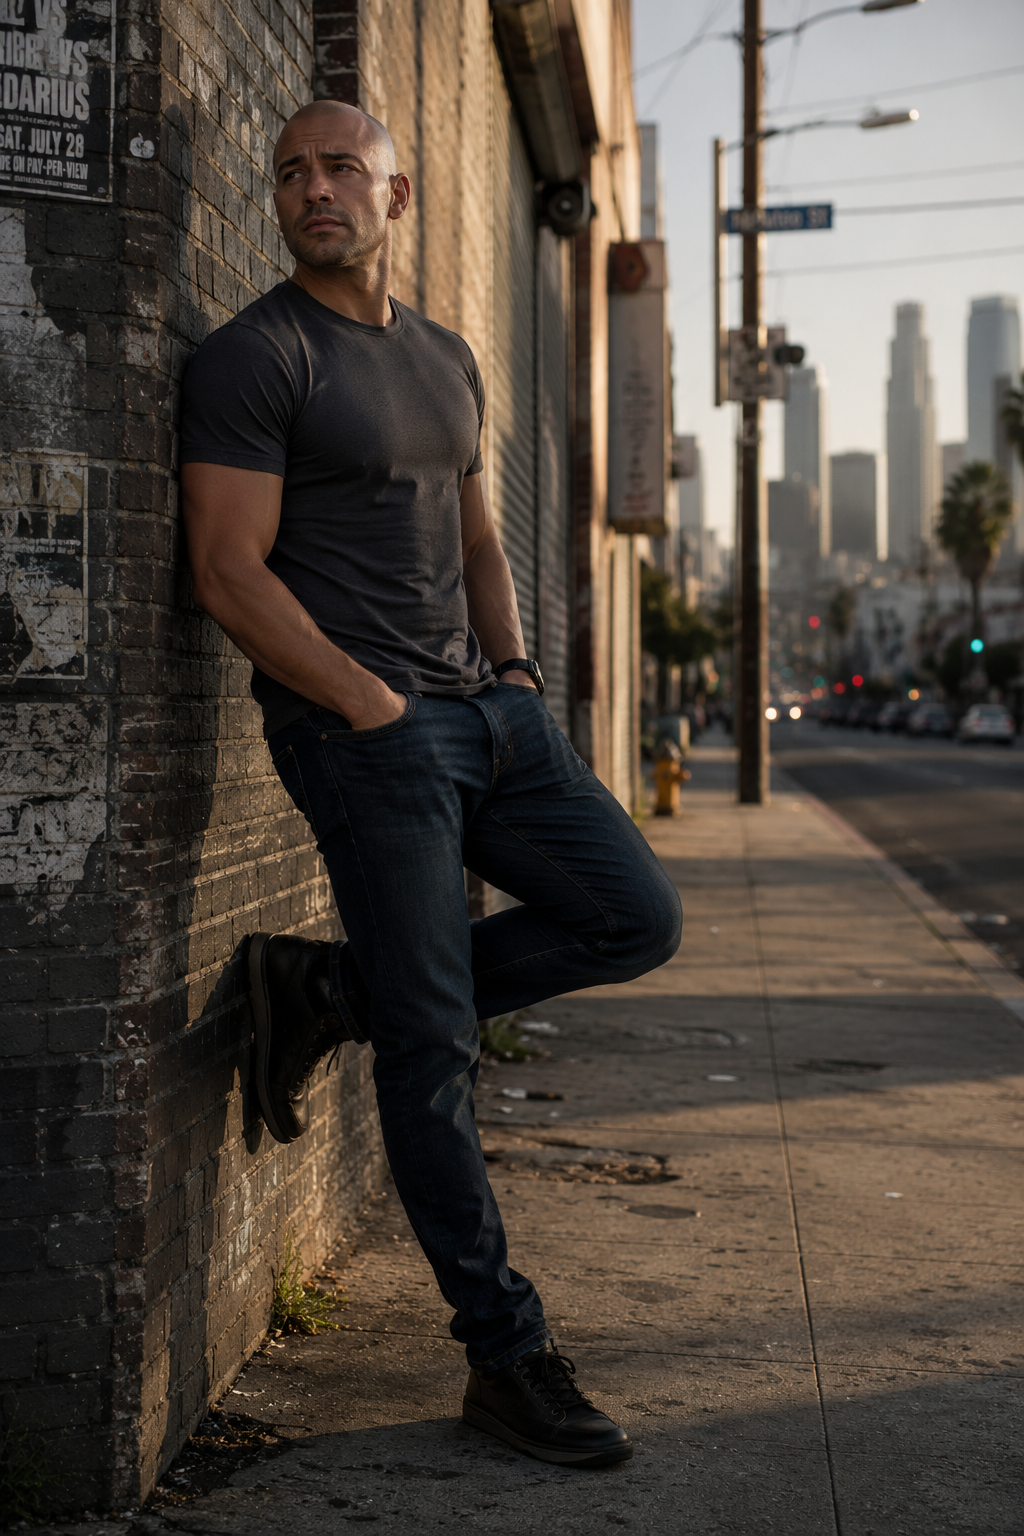
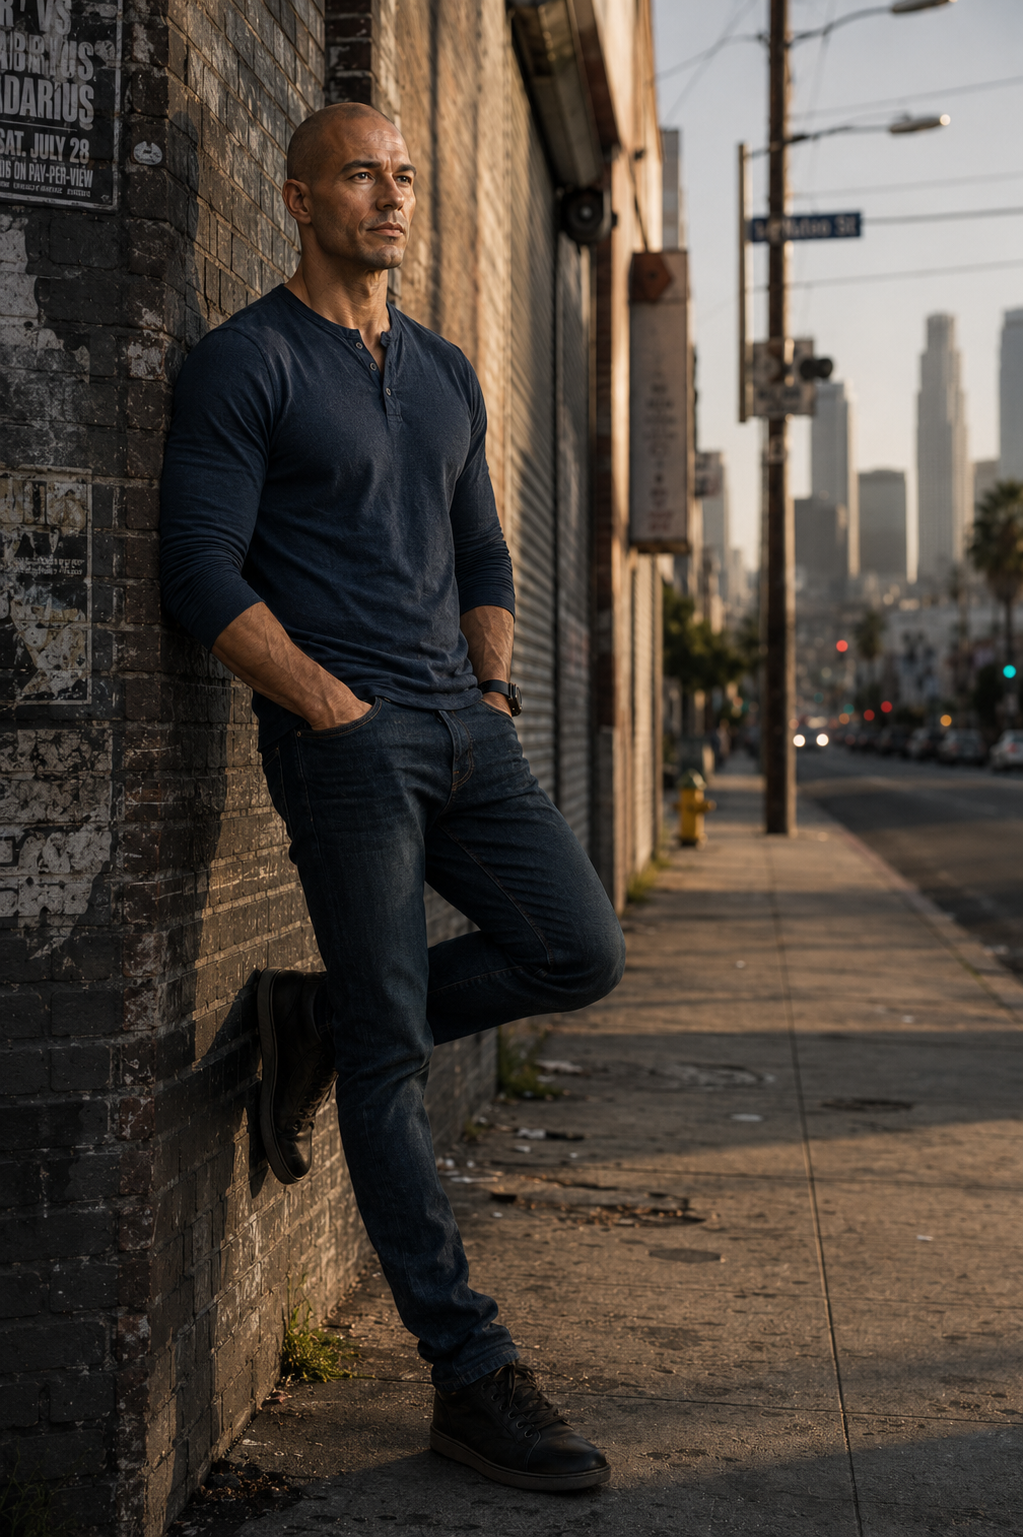
content(about): author's note + refreshed Marcus art
Replaces the "[ Placeholder bio ]" scaffolding on the About page with a real
first-person author's note, adapted from Mark's stated vision for Realmwalkers
into the established page voice (spoiler-safe, teaser tier): the
crossover-that-must-matter impulse, the two scales (cosmic factions over an
intimate party), grounded mechanics without homework ("rules beneath the
wonder"), and the cross-book romance at the center.

Also lands a re-exported src/assets/cast/marcus.png (~2.50MB -> ~2.40MB).

Author name in src/lib/site.ts is still a placeholder, so the page title keeps
its "The Author" fallback.

diff --git a/src/app/about/page.tsx b/src/app/about/page.tsx
@@ -38,16 +38,33 @@ export default function AboutPage() {
 
             <div className="reading-prose">
               <p>
-                <em>[ Placeholder bio — Mark to replace. ]</em> {named ? SITE.author : 'The author'}{' '}
-                is the author of <em>The Dominion Realm</em>, the first book in the Realmwalkers
-                saga: a story about a man who can read the numbers under the world and keeps
-                mistaking the translation for the truth.
+                I wrote <em>Realmwalkers</em> because I wanted the fantasy I kept looking for and
+                never found — the one where all the things I love share a single universe. The
+                powers, the magic systems, the fighting styles, the worlds. Not as a gimmick, but as
+                a real place where they collide, strike bargains, and force each other to make
+                sense.
               </p>
               <p>
-                This is where the author&apos;s voice goes — where the idea came from, what
-                interface fantasy means to them, and why a health bar can be the most honest lie a
-                frightened mind ever tells itself. A paragraph or two of real biography lands here,
-                in the author&apos;s own words.
+                It runs at two scales at once. Above, there are cosmic factions, ancient threats,
+                and systems large enough to reshape worlds. Below, there is a small party of
+                dangerously capable people — each with their own specialty, their own independence,
+                and real consequences when they fail one another. The Realm is vast; the story is
+                the handful of people trying to survive it together.
+              </p>
+              <p>
+                I love watching a character get measurably stronger on the page, so there is real
+                machinery under this world: classes, stats, biology, the interface itself. But you
+                won&apos;t be doing homework. The math is there to make the wonder hold weight — so
+                that when someone is hurt, transformed, or pushed past their limit, the world has
+                rules beneath it and the cost is real.
+              </p>
+              <p>
+                At the center is a romance that spans the whole series — two strangers becoming
+                something larger and stranger and harder than any simple love story — surrounded by
+                the friendships, rivalries, and quiet betrayals that come with it. Every character
+                carries a piece of me, or of someone who shaped me. The aim was never to feel
+                generic: familiar enough that you recognize what you love, distinct enough that it
+                becomes something new.
               </p>
               <p>
                 For early chapters, field notes, and new codex entries as the Realm fills in, join
